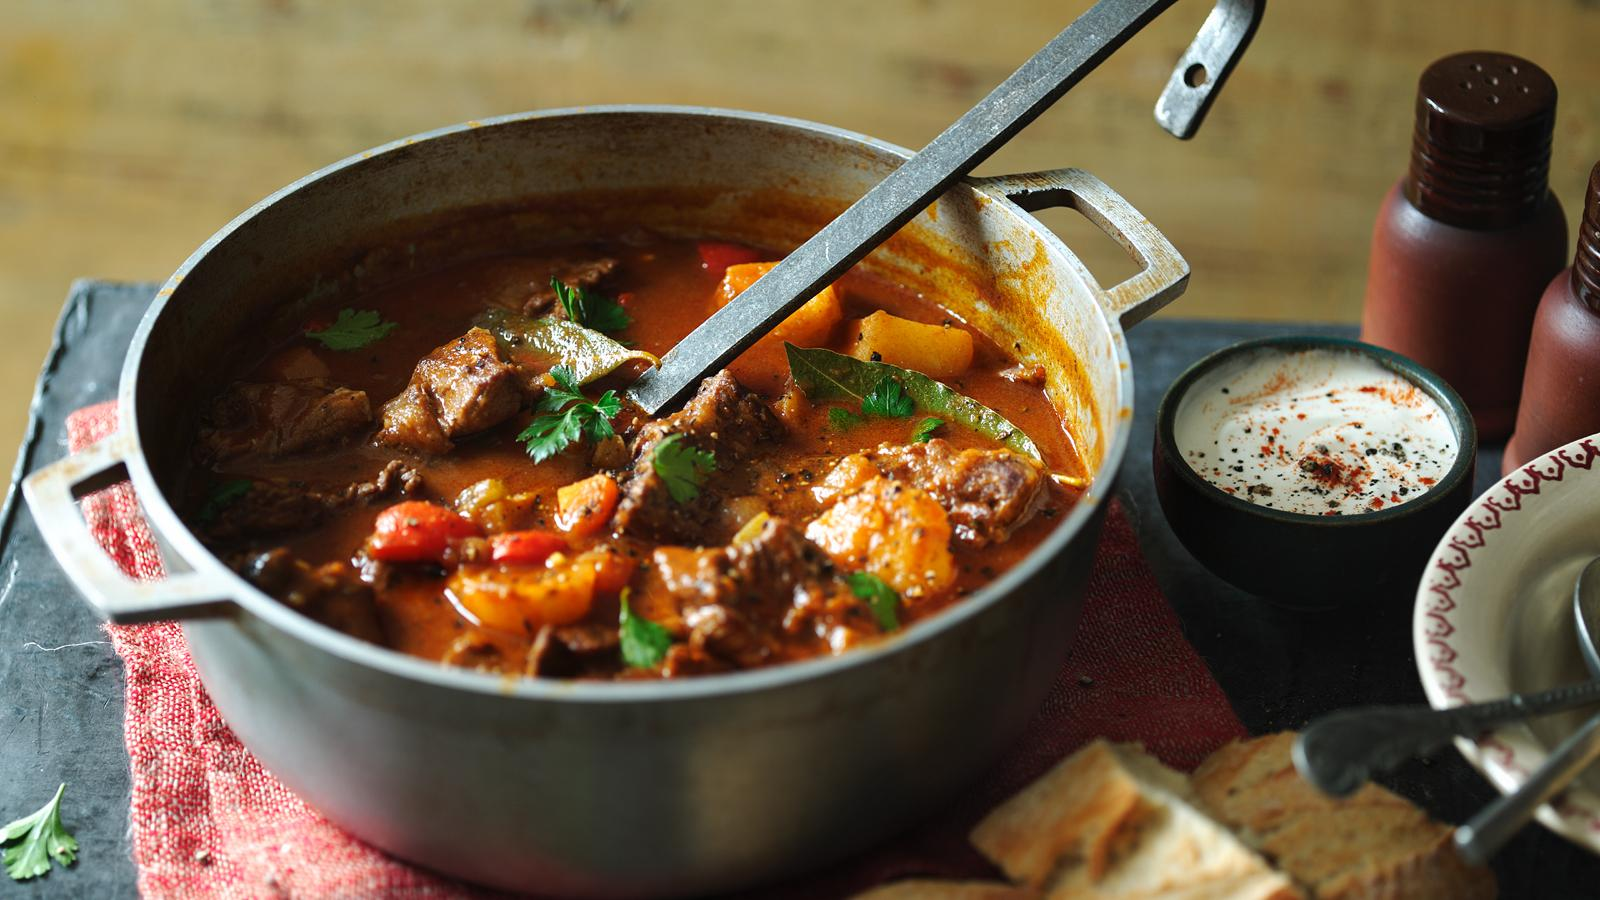
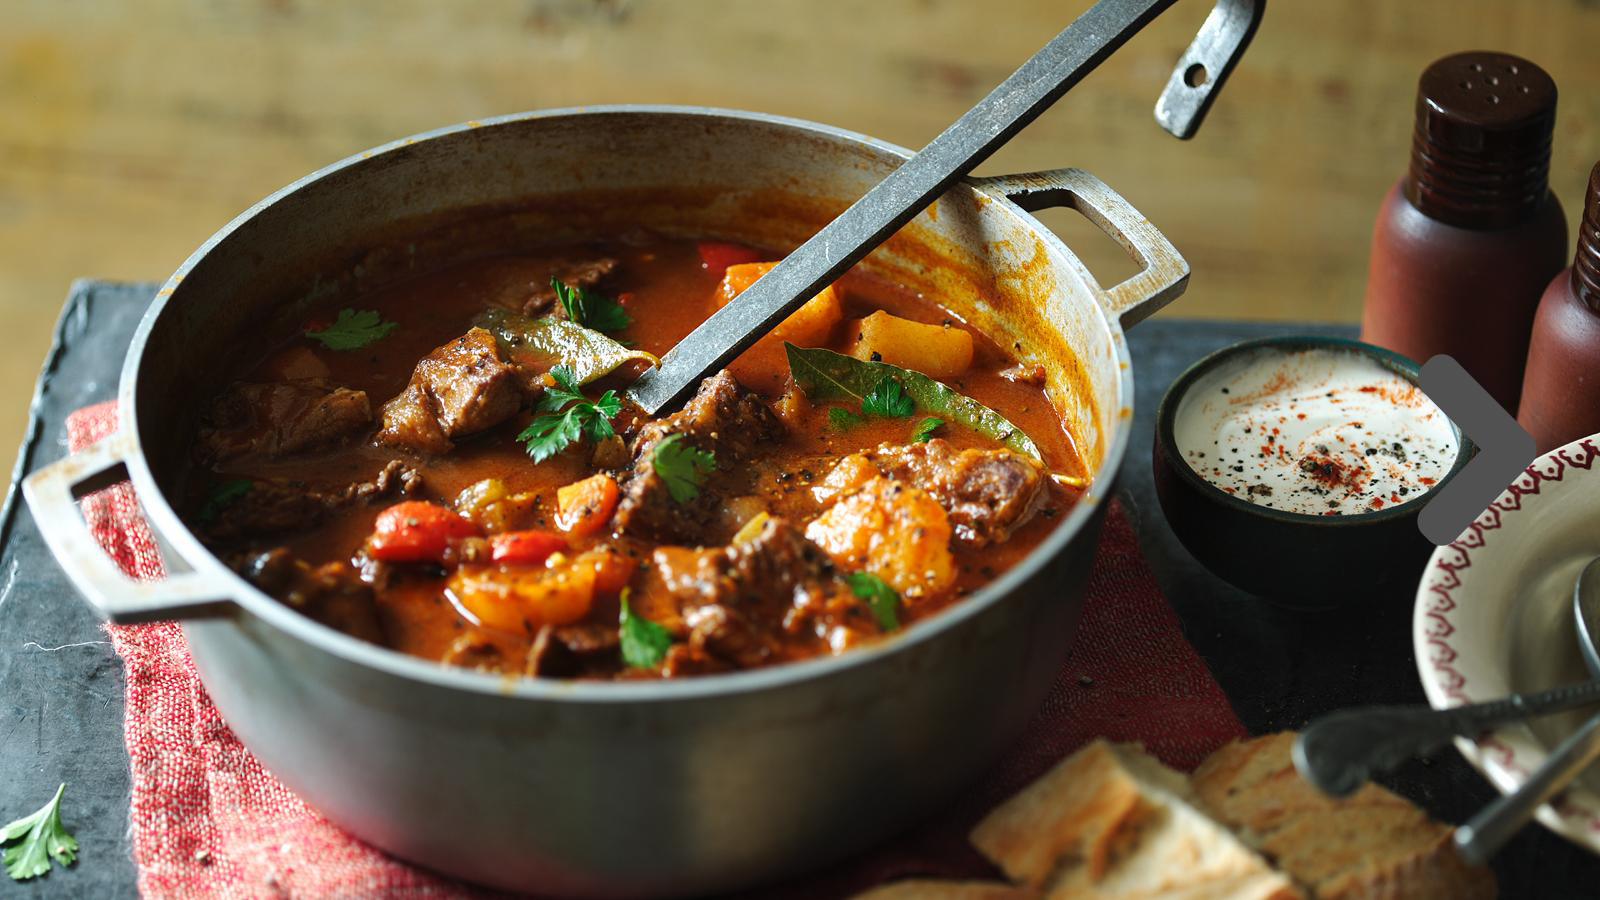
Képek változtatásának elkészítése

Changed region(s): [[0.875, 0.3733, 0.9688, 0.6222]]

diff --git a/index.html b/index.html
@@ -5,6 +5,7 @@
     <meta http-equiv="X-UA-Compatible" content="IE=edge">
     <meta name="viewport" content="width=device-width, initial-scale=1.0">
     <title>Mechwart menza heti étlap</title>
+    <link rel="stylesheet" href="https://cdnjs.cloudflare.com/ajax/libs/font-awesome/4.7.0/css/font-awesome.min.css">
     <link rel="stylesheet" type="text/css" href="css/bootstrap.min.css">
     <link rel="stylesheet" type="text/css" href="stilus.css">
 </head>
@@ -38,7 +39,7 @@
           </div>
           <div class="row col-12 col-lg-12 col-xxl-12 justify-content-center" style="margin: 0;"> 
             <div class="card" style="width: 18rem; margin-left: 20px; margin-top: 50px;">
-              <img class="card-img-top" src="img/soup_gulyas.jpg" alt="Card image cap">
+              <img class="card-img-top" src="img/soup_gulyas.jpg" id="imgClickAndChange" alt="Card image cap">
               <div class="card-body">
                 <h5 class="card-title">Hétfői menü</h5>
                 <p class="card-text">Az adagok egy személyre vannak, a recept megtalálható a recept szóra kattintva.</p>
@@ -56,7 +57,7 @@
               </div>
             </div> 
             <div class="card" style="width: 18rem; margin-left: 20px; margin-top: 50px;">
-                <img class="card-img-top" src="img/jokaibableves.jpg" alt="Card image cap">
+                <img class="card-img-top" src="img/jokaibableves.jpg" id="imgClickAndChange1" alt="Card image cap">
                 <div class="card-body">
                   <h5 class="card-title">Keddi menü</h5>
                   <p class="card-text">Az adagok egy személyre vannak, a recept megtalálható a recept szóra kattintva.</p>
@@ -128,8 +129,68 @@
                 </div>
               </div>
                  </div>
-
+                 <footer>
+                  <div class="bg-white mt-5">
+                    <a href="#" class="fa fa-facebook"></a>
+                    <a href="#" class="fa fa-twitter"></a>
+                  </div>
+                 </footer>
             </div> 
 </body>
 <script src="js/bootstrap.bundle.min.js"></script>
+<script language="javascript">
+  var images = ["img/soup_gulyas.jpg", "img/rantotthus.jpg", "img/gofri.jpg"]
+
+var imgState = 0;
+
+var imgTag = document.getElementById("imgClickAndChange");
+
+imgTag.addEventListener("click", function (event) {
+  imgState = (++imgState % images.length);
+  event.target.src = images[imgState];
+});
+var images = ["img/jokaibableves.jpg", "img/makosteszta.jpg", "img/gofri.jpg"]
+
+var imgState = 0;
+
+var imgTag = document.getElementById("imgClickAndChange1");
+
+imgTag.addEventListener("click", function (event) {
+  imgState = (++imgState % images.length);
+  event.target.src = images[imgState];
+});
+
+var images = ["img/jokaibableves.jpg", "img/makosteszta.jpg", "img/gofri.jpg"]
+
+var imgState = 0;
+
+var imgTag = document.getElementById("imgClickAndChange2");
+
+imgTag.addEventListener("click", function (event) {
+  imgState = (++imgState % images.length);
+  event.target.src = images[imgState];
+});
+
+var images = ["img/jokaibableves.jpg", "img/makosteszta.jpg", "img/gofri.jpg"]
+
+var imgState = 0;
+
+var imgTag = document.getElementById("imgClickAndChange3");
+
+imgTag.addEventListener("click", function (event) {
+  imgState = (++imgState % images.length);
+  event.target.src = images[imgState];
+});
+
+var images = ["img/jokaibableves.jpg", "img/makosteszta.jpg", "img/gofri.jpg"]
+
+var imgState = 0;
+
+var imgTag = document.getElementById("imgClickAndChange4");
+
+imgTag.addEventListener("click", function (event) {
+  imgState = (++imgState % images.length);
+  event.target.src = images[imgState];
+});
+</script>
 </html>

diff --git a/stilus.css b/stilus.css
@@ -8,3 +8,7 @@ body {
     margin-top: 30px;
 }
 
+img:hover {
+    cursor: pointer;
+}
+
